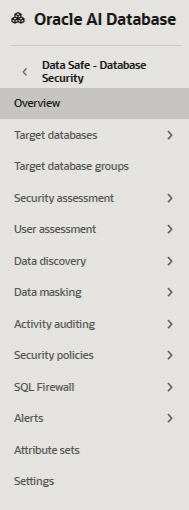
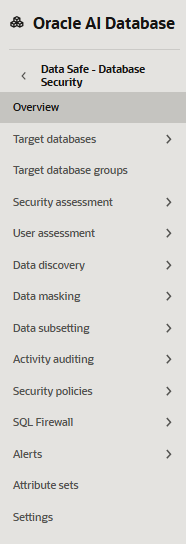
updates after testing

diff --git a/data-safe/access-environment/access-environment-sandbox-ocw.md b/data-safe/access-environment/access-environment-sandbox-ocw.md
@@ -57,13 +57,15 @@ A database registered with Oracle Data Safe is referred to as a *target database
 
 1. From the navigation menu (hamburger menu in the upper-left corner), select **Oracle AI Database**, and then **Overview** under **Data Safe - Database Security**.
 
-    The **Overview** page titled **Simplify security for your Oracle databases** opens.
+    The **Overview** page for Oracle Data Safe opens and the tour dialog box appears.
 
-2. On the left under **Data Safe - Database Security**, select **Target databases**.
+2. Select **Exit** to close the dialog box.
+
+3. On the left under **Data Safe - Database Security**, select **Target databases**.
 
     The **Target databases** page opens.
 
-3. Next to **Applied filters**, select your compartment, which is under the **LiveLabs** folder in the list. Deselect **Include child compartments**, and then select **Apply filter**.
+4. Next to **Applied filters**, select your compartment, which is under the **LiveLabs** folder in the list. Deselect **Include child compartments**, and then select **Apply filter**.
 
     Note: From here on in, the labs simply say *Select your compartment without child compartments* to simplify the instructions.
 
@@ -76,11 +78,11 @@ A database registered with Oracle Data Safe is referred to as a *target database
 
 ## Task 3: Explore the Oracle Data Safe user interface
 
-1. On the left, select **Target databases**, and then select **Overview**.
+1. On the left, select **Target databases**, and then select **Overview**. Select **Exit** to close the tour dialog box.
 
-    The **Overview** page opens. On this page, you can register target databases; learn about Oracle Data Safe features, Oracle Data Safe private endpoints, and Oracle Data Safe on-premises connectors; and access documentation.
+    On the **Overview** page, you can register target databases; learn about Oracle Data Safe features, Oracle Data Safe private endpoints, and Oracle Data Safe on-premises connectors; and access documentation.
 
-2. Under **Data Safe - Database Security** on the left, select and review the landing pages for each feature covered in this workshop: **Security assessment**, **User assessment**, **Data discovery**, **Data masking**, and **SQL Firewall**.
+2. Under **Data Safe - Database Security** on the left, select and review the landing pages for each feature covered in this workshop: **Security assessment**, **User assessment**, **Data discovery**, **Data masking**, **Data subsetting**, and **SQL Firewall**.
 
     - From here on in, we simply say *Navigate to a feature's landing page* to simplify the instructions.
     - When you register a target database, Oracle Data Safe automatically creates a security assessment and user assessment for you.
@@ -97,6 +99,8 @@ Database Actions provides a way for you to run SQL commands on your database. Th
 2. Next to **Applied filters**, select your compartment under the **LiveLabs** folder. In the table, select the name of your database.
 
 3. From the **Database actions** menu, select **SQL**.
+
+    A new browser tab is opened with **Database actions**.
 
 4. If required, sign in as the `ADMIN` user.
 
@@ -127,4 +131,4 @@ You may now **proceed to the next lab**.
 
 - **Author** - Jody Glover, Lead Principal User Assistance Developer, Database Development
 - **Contributor** - Bettina Schäumer, Lead Principal Product Manager, Oracle Database Security
-- **Last Updated By/Date** - Jody Glover, August 20, 2026
+- **Last Updated By/Date** - Jody Glover, October 9, 2026

diff --git a/data-safe/access-environment/access-environment-sandbox.md b/data-safe/access-environment/access-environment-sandbox.md
@@ -58,7 +58,7 @@ A database registered with Oracle Data Safe is referred to as a *target database
 
 1. From the navigation menu, select **Oracle AI Database**, and then **Overview** under **Data Safe - Database Security**.
 
-    The **Overview** page titled **Simplify security for your Oracle databases** opens. If the **Welcome to Data Safe** tour dialog box is displayed, click **Stop tour**.
+    The **Overview** page titled **Simplify security for your Oracle databases** opens. If the **Welcome to Data Safe** tour dialog box is displayed, select **Stop tour**.
 
 2. On the left under **Data Safe - Database Security**, select **Target databases**.
 
@@ -78,7 +78,7 @@ A database registered with Oracle Data Safe is referred to as a *target database
 
     The **Overview** page opens. On this page, you can register target databases; learn about Oracle Data Safe features, Oracle Data Safe private endpoints, and Oracle Data Safe on-premises connectors; and access documentation.
 
-2. Under **Data Safe - Database Security** on the left, select and review the landing pages for each of the features covered in this workshop: **Security assessment**, **User assessment**, **Data discovery**, **Data masking**, **Activity auditing**, **SQL Firewall**, and **Alerts**.
+2. Under **Data Safe - Database Security** on the left, select and review the landing pages for each of the features covered in this workshop: **Security assessment**, **User assessment**, **Data discovery**, **Data masking**, **Data subsetting**, **Activity auditing**, **SQL Firewall**, and **Alerts**.
 
     - From here on in, we simply say *Navigate to a feature's landing page* to simplify the instructions.
     - When you register a target database, Oracle Data Safe automatically creates a security assessment and user assessment for you.
@@ -126,4 +126,4 @@ You may now **proceed to the next lab**.
 
 - **Author** - Jody Glover, Lead Principal User Assistance Developer, Database Development
 - **Contributor** - Bettina Schäumer, Lead Principal Product Manager, Oracle Database Security
-- **Last Updated By/Date** - Jody Glover, August 20, 2026
+- **Last Updated By/Date** - Jody Glover, October 9, 2026
